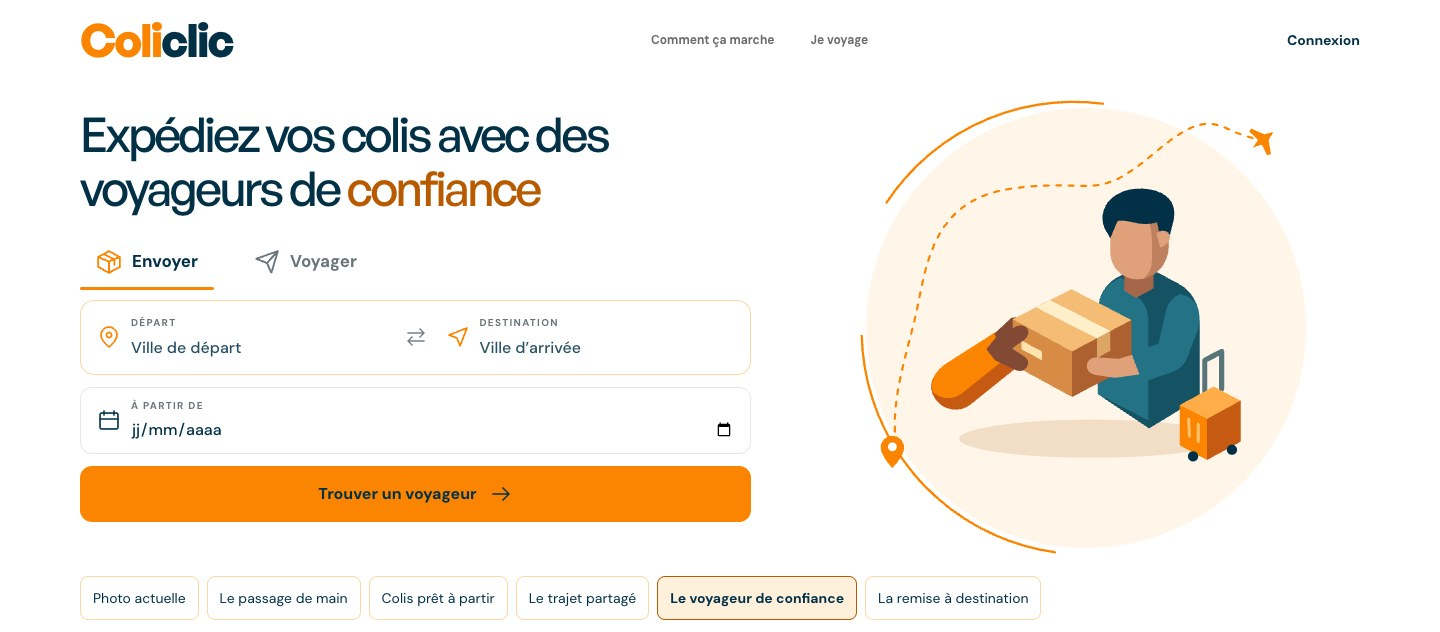
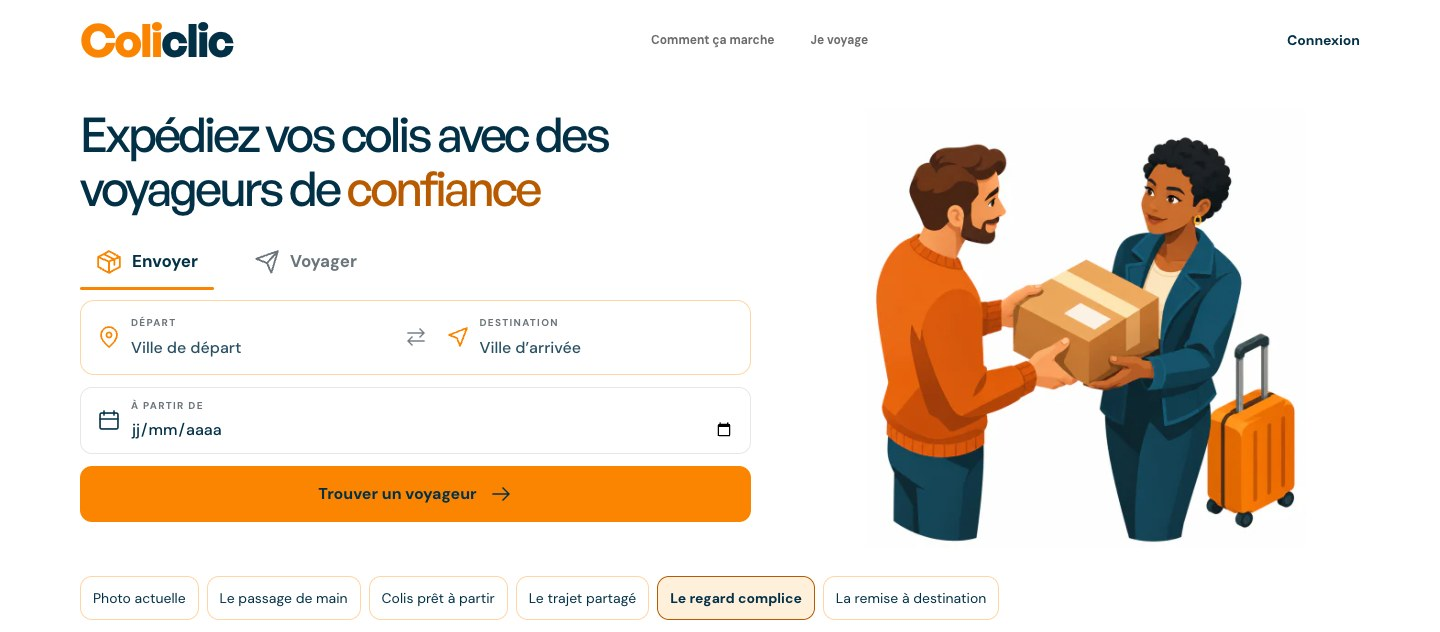
feat: intégrer le regard complice à la landing

Changed region(s): [[0.5938, 0.1804, 0.9062, 0.8718], [0.4688, 0.9019, 0.7188, 0.9921], [0.6875, 0.1503, 0.7812, 0.1804]]

diff --git a/front-office/src/app/pages/landing/landing-page.component.spec.ts b/front-office/src/app/pages/landing/landing-page.component.spec.ts
@@ -70,11 +70,11 @@ describe('LandingPageComponent', () => {
   });
 
   for (const [id, asset] of [
-    ['1', 'handoff'],
-    ['2', 'packed'],
-    ['3', 'route'],
-    ['4', 'traveler'],
-    ['5', 'delivery'],
+    ['1', 'handoff.svg'],
+    ['2', 'packed.svg'],
+    ['3', 'route.svg'],
+    ['4', 'traveler-480.webp'],
+    ['5', 'delivery.svg'],
   ]) {
     it(`opens illustration ${id} from the landing URL`, async () => {
       router.resetConfig([{ path: '', component: LandingPageComponent }]);
@@ -82,10 +82,17 @@ describe('LandingPageComponent', () => {
       const landing = harness.routeNativeElement!;
       const photo = landing.querySelector<HTMLImageElement>('app-landing-visual img');
 
-      expect(photo?.getAttribute('src')).toBe(`/images/landing-illustrations/${asset}.svg`);
+      expect(photo?.getAttribute('src')).toBe(`/images/landing-illustrations/${asset}`);
       expect(photo?.alt).toBeTruthy();
-      expect(landing.querySelector('.hero-route') !== null).toBe(id !== '3');
+      expect(landing.querySelector('.hero-route') !== null).toBe(id !== '3' && id !== '4');
+      expect(landing.querySelector('.photo-ring') !== null).toBe(id !== '4');
       expect(landing.querySelector('nav .preview-link[aria-current]')?.getAttribute('href')).toBe(`/?illustration=${id}`);
+      if (id === '4') {
+        expect(photo?.closest('.full-frame-window')).toBeTruthy();
+        expect(photo?.srcset).toContain('traveler-360.webp 360w');
+        expect(photo?.srcset).toContain('traveler-880.webp 880w');
+        expect(photo?.sizes).toContain('96px');
+      }
     });
   }
 

diff --git a/front-office/src/app/pages/landing/landing-visual.component.html b/front-office/src/app/pages/landing/landing-visual.component.html
@@ -1,14 +1,17 @@
 <div class="hero-photo">
-  <div class="photo-window" [class.illustration-window]="illustration">
+  <div class="photo-window" [class.illustration-window]="illustration" [class.full-frame-window]="illustration?.fullFrame">
     @if (illustration; as preview) {
-      <img [src]="preview.src" [alt]="preview.alt" width="600" height="600">
+      <img [src]="preview.src" [alt]="preview.alt" [attr.srcset]="preview.fullFrame?.srcset"
+        [attr.sizes]="preview.fullFrame?.sizes" width="600" height="600">
     } @else {
       <img src="/images/landing-handoff.webp" alt="Deux voyageurs souriants échangent un colis dans une gare lumineuse." width="1024" height="1024" fetchpriority="high">
     }
   </div>
-  <svg class="photo-ring" viewBox="0 0 600 600" aria-hidden="true"><path d="M42 138A290 290 0 0 1 322 10M10 310A290 290 0 0 0 260 590"/></svg>
+  @if (!illustration?.fullFrame) {
+    <svg class="photo-ring" viewBox="0 0 600 600" aria-hidden="true"><path d="M42 138A290 290 0 0 1 322 10M10 310A290 290 0 0 0 260 590"/></svg>
+  }
 </div>
-@if (illustration?.id !== '3') {
+@if (!illustration?.fullFrame && illustration?.id !== '3') {
   <svg class="hero-route" viewBox="0 0 600 600" fill="none" aria-hidden="true">
     <path class="route-track" d="M44 475C30 414 50 355 66 290S84 126 198 110 310 132 395 60 480 38 542 43"/>
     <g class="route-pin" transform="translate(20 445)"><path d="M32 18c0 12-16 28-16 28S0 30 0 18a16 16 0 1 1 32 0Z" fill="currentColor"/><circle cx="16" cy="17" r="6" fill="white"/></g>

diff --git a/front-office/src/app/pages/landing/landing-illustrations.ts b/front-office/src/app/pages/landing/landing-illustrations.ts
@@ -1,4 +1,17 @@
-export const LANDING_ILLUSTRATIONS = [
+export interface LandingIllustration {
+  id: string;
+  label: string;
+  src: string;
+  alt: string;
+  fullFrame?: {
+    srcset: string;
+    sizes: string;
+  };
+}
+
+const travelerImage = '/images/landing-illustrations/traveler';
+
+export const LANDING_ILLUSTRATIONS: readonly LandingIllustration[] = [
   {
     id: '1',
     label: 'Le passage de main',
@@ -19,9 +32,13 @@ export const LANDING_ILLUSTRATIONS = [
   },
   {
     id: '4',
-    label: 'Le voyageur de confiance',
-    src: '/images/landing-illustrations/traveler.svg',
-    alt: 'Un voyageur reçoit un colis, sa valise à côté de lui.',
+    label: 'Le regard complice',
+    src: `${travelerImage}-480.webp`,
+    alt: 'Un expéditeur remet un colis à une voyageuse, sa valise orange à côté d’elle.',
+    fullFrame: {
+      srcset: `${travelerImage}-360.webp 360w, ${travelerImage}-480.webp 480w, ${travelerImage}-880.webp 880w`,
+      sizes: '(min-width: 1024px) 440px, (min-width: 768px) 120px, (max-height: 640px) 96px, 112px',
+    },
   },
   {
     id: '5',
@@ -29,6 +46,4 @@ export const LANDING_ILLUSTRATIONS = [
     src: '/images/landing-illustrations/delivery.svg',
     alt: 'Un voyageur remet un colis à une personne sur le seuil de sa porte.',
   },
-] as const;
-
-export type LandingIllustration = (typeof LANDING_ILLUSTRATIONS)[number];
+];

diff --git a/front-office/src/app/pages/landing/landing-visual.component.css b/front-office/src/app/pages/landing/landing-visual.component.css
@@ -5,6 +5,8 @@
 .photo-window img { transform: translateY(var(--photo-shift, 0px)) scale(var(--photo-zoom, 1.02)); }
 .illustration-window { background: #fff5e9; }
 .illustration-window img { object-fit: contain; transform: none; }
+.full-frame-window, .full-frame-window img { border-radius: 0; }
+.full-frame-window { background: white; }
 .photo-ring { position: absolute; inset: -12px; width: calc(100% + 24px); height: calc(100% + 24px); fill: none; stroke: #FB8500; stroke-width: 3; stroke-linecap: round; }
 .hero-route { pointer-events: none; position: absolute; inset: 0; width: 100%; height: 100%; color: #FB8500; z-index: 3; overflow: visible; }
 .route-track { stroke: currentColor; stroke-width: 3; stroke-linecap: round; stroke-dasharray: 7 10; }
